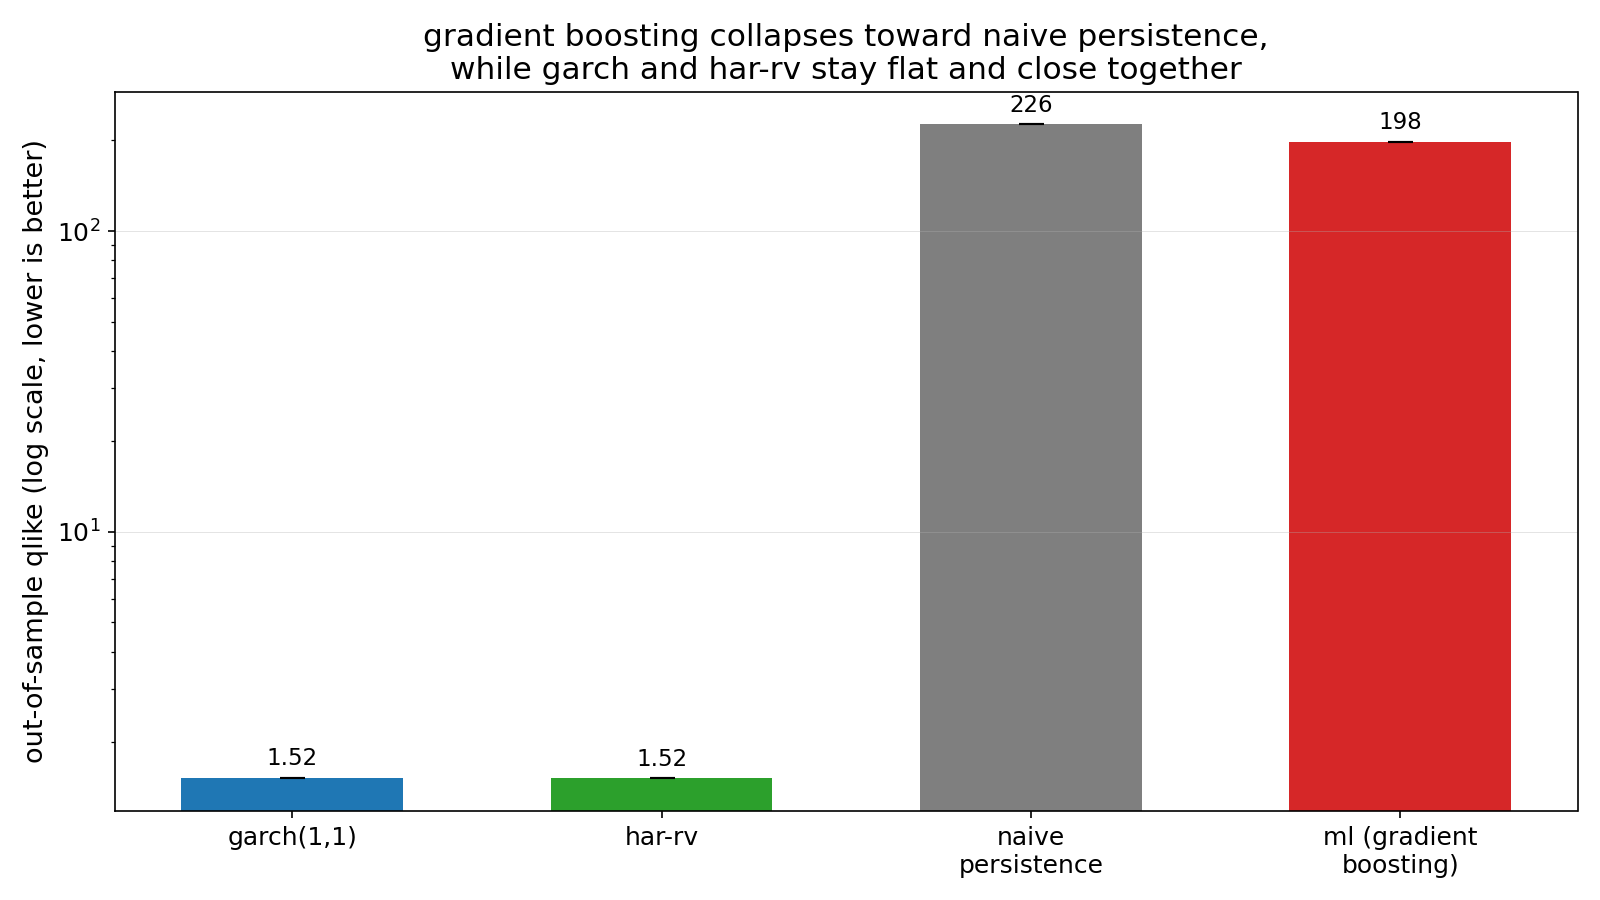
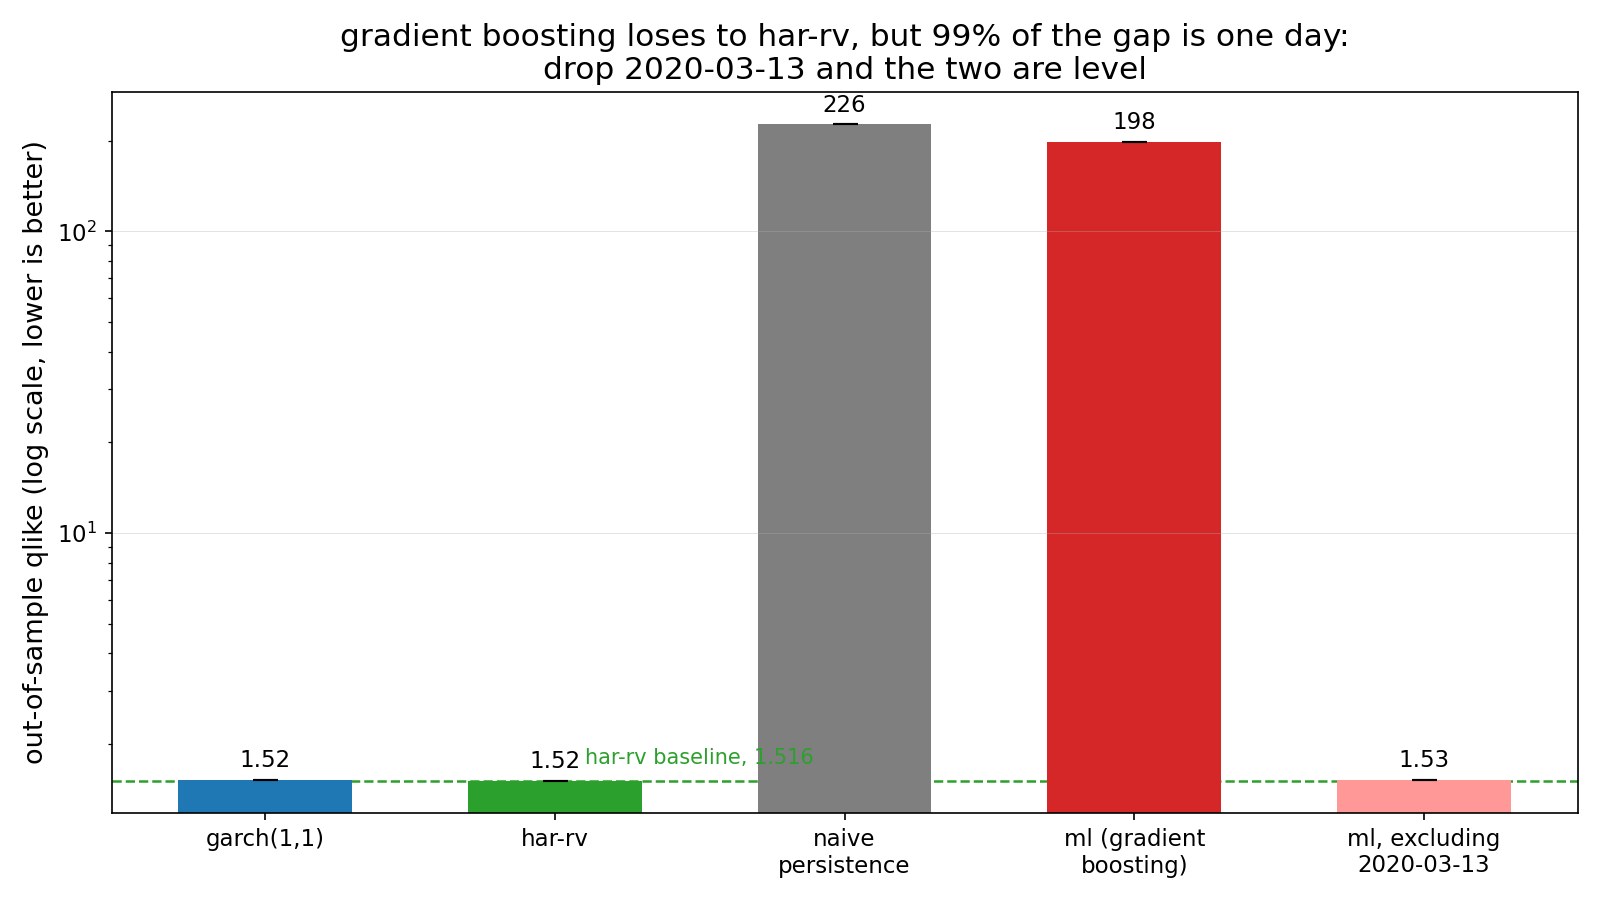
put the excluding-2020-03-13 bar on the headline chart
The four-bar version showed gradient boosting sitting next to naive
persistence and let a reader conclude the model is broadly bad. A fifth bar
and the har-rv reference line show the same number with its one dominant day
removed, parsed from the committed log like every other value on the chart.

diff --git a/src/plot.py b/src/plot.py
@@ -23,6 +23,10 @@ BASELINE_ROW_RE = re.compile(
 RIGOR_MEAN_RE = re.compile(
     r"^ML \(gradient boosting\) QLIKE across \d+ seeds: mean=([\d.]+) std=([\d.]+)"
 )
+RIGOR_EXCLUDING_RE = re.compile(
+    r"^excluding only (\d{8}), on the identical remaining \d+ days: "
+    r"ML mean QLIKE=([\d.]+), HAR-RV mean QLIKE=([\d.]+)"
+)
 
 
 def parse_baseline_qlike(path=BASELINE_LOG):
@@ -45,12 +49,25 @@ def parse_ml_qlike(path=RIGOR_LOG):
     raise AssertionError("no ML seed-sweep summary line found in rigor.log")
 
 
-def plot(baseline_qlike, ml_mean, ml_std, out_path=OUT_PATH):
-    labels = ["garch(1,1)", "har-rv", "naive\npersistence", "ml (gradient\nboosting)"]
+def parse_excluding_worst_day(path=RIGOR_LOG):
+    """Returns (date, ml_qlike, har_qlike) with the ML model's single worst day
+    dropped from both averages, as printed by the decomposition in rigor.py.
+    """
+    for line in path.read_text().splitlines():
+        m = RIGOR_EXCLUDING_RE.match(line)
+        if m:
+            return m.group(1), float(m.group(2)), float(m.group(3))
+    raise AssertionError("no worst-day exclusion line found in rigor.log")
+
+
+def plot(baseline_qlike, ml_mean, ml_std, worst_day, ml_excluding, out_path=OUT_PATH):
+    pretty_day = f"{worst_day[:4]}-{worst_day[4:6]}-{worst_day[6:]}"
+    labels = ["garch(1,1)", "har-rv", "naive\npersistence", "ml (gradient\nboosting)",
+              f"ml, excluding\n{pretty_day}"]
     values = [baseline_qlike["GARCH(1,1)"], baseline_qlike["HAR-RV"],
-              baseline_qlike["naive persistence"], ml_mean]
-    errors = [0, 0, 0, ml_std]
-    colors = ["#1f77b4", "#2ca02c", "#7f7f7f", "#d62728"]
+              baseline_qlike["naive persistence"], ml_mean, ml_excluding]
+    errors = [0, 0, 0, ml_std, 0]
+    colors = ["#1f77b4", "#2ca02c", "#7f7f7f", "#d62728", "#ff9896"]
 
     fig, ax = plt.subplots(figsize=(1600 / 150, 900 / 150), dpi=150)
     fig.patch.set_facecolor("white")
@@ -60,12 +77,19 @@ def plot(baseline_qlike, ml_mean, ml_std, out_path=OUT_PATH):
     ax.set_yscale("log")
     ax.set_ylabel("out-of-sample qlike (log scale, lower is better)", fontsize=13)
     ax.set_title(
-        "gradient boosting collapses toward naive persistence,\n"
-        "while garch and har-rv stay flat and close together",
+        "gradient boosting loses to har-rv, but 99% of the gap is one day:\n"
+        f"drop {pretty_day} and the two are level",
         fontsize=15,
     )
-    ax.tick_params(labelsize=12)
+    ax.tick_params(labelsize=11)
     ax.grid(axis="y", linewidth=0.4, alpha=0.4)
+
+    ax.axhline(baseline_qlike["HAR-RV"], color="#2ca02c", linestyle="--", linewidth=1.2,
+               zorder=0)
+    ax.annotate(f"har-rv baseline, {baseline_qlike['HAR-RV']:.3f}",
+                xy=(1.5, baseline_qlike["HAR-RV"]), xytext=(0, 6),
+                textcoords="offset points", ha="center", va="bottom", fontsize=10,
+                color="#2ca02c")
 
     for bar, v in zip(bars, values):
         ax.annotate(f"{v:.3g}", xy=(bar.get_x() + bar.get_width() / 2, v),
@@ -79,4 +103,5 @@ def plot(baseline_qlike, ml_mean, ml_std, out_path=OUT_PATH):
 if __name__ == "__main__":
     baseline_qlike = parse_baseline_qlike()
     ml_mean, ml_std = parse_ml_qlike()
-    plot(baseline_qlike, ml_mean, ml_std)
+    worst_day, ml_excluding, _ = parse_excluding_worst_day()
+    plot(baseline_qlike, ml_mean, ml_std, worst_day, ml_excluding)
